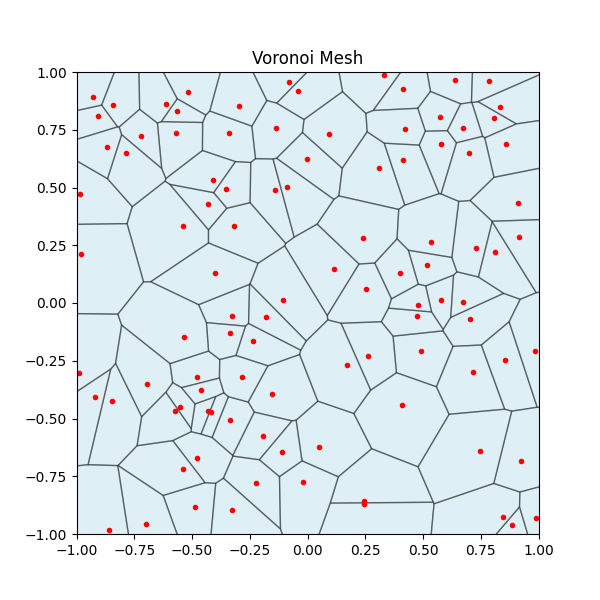
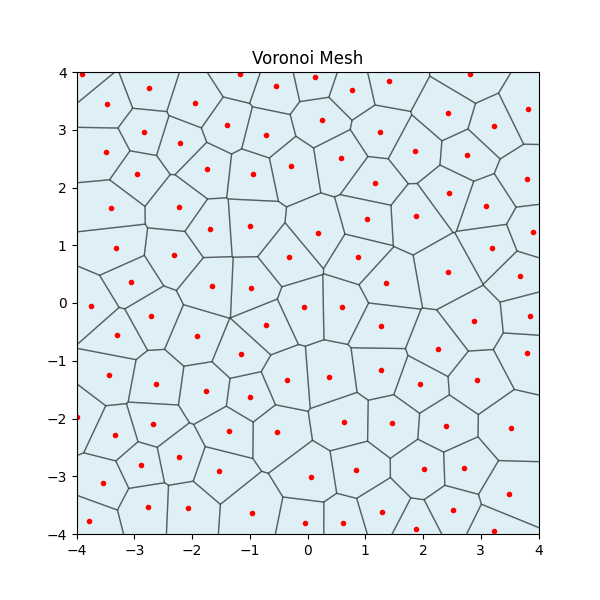
adding glass node generator

diff --git a/src/Generation/RandomNodeGenerator.py b/src/Generation/RandomNodeGenerator.py
@@ -7,10 +7,10 @@ class RandomNodeGenerator1d:
         self.bounds = bounds
         self.positions = []
         if len(self.bounds) == 0:
-            self.bounds = [0, 1]  # default bounds if none are provided
+            self.bounds = [-1, 1]  # default bounds if none are provided
         import random
         for i in range(numNodes):
-            self.positions.append(Vector1d(random.uniform(self.bounds[0], self.bounds[1])))
+            self.positions.append(random.uniform(self.bounds[0], self.bounds[1]))
 
 class RandomNodeGenerator2d:
     def __init__(self, numNodes, bounds=[]):
@@ -18,12 +18,12 @@ class RandomNodeGenerator2d:
         self.bounds = bounds
         self.positions = []
         if len(self.bounds) == 0:
-            self.bounds = [[0, 0], [1, 1]]  # default bounds if none are provided
+            self.bounds = [[-1, -1], [1, 1]]  # default bounds if none are provided
         import random
         for i in range(numNodes):
             x = random.uniform(self.bounds[0][0], self.bounds[1][0])
             y = random.uniform(self.bounds[0][1], self.bounds[1][1])
-            self.positions.append(Vector2d(x, y))
+            self.positions.append([x, y])
 
 class RandomNodeGenerator3d:
     def __init__(self, numNodes, bounds=[]):
@@ -31,10 +31,10 @@ class RandomNodeGenerator3d:
         self.bounds = bounds
         self.positions = []
         if len(self.bounds) == 0:
-            self.bounds = [[0, 0, 0], [1, 1, 1]]  # default bounds if none are provided
+            self.bounds = [[-1,-1,-1], [1, 1, 1]]  # default bounds if none are provided
         import random
         for i in range(numNodes):
             x = random.uniform(self.bounds[0][0], self.bounds[1][0])
             y = random.uniform(self.bounds[0][1], self.bounds[1][1])
             z = random.uniform(self.bounds[0][2], self.bounds[1][2])
-            self.positions.append(Vector3d(x, y, z))
+            self.positions.append([x, y, z])

diff --git a/src/Generation/GlassNodeGenerator.py b/src/Generation/GlassNodeGenerator.py
@@ -1,0 +1,45 @@
+from DataBase import *
+from LinearAlgebra import *
+from Trees import *
+from numpy import sqrt
+
+class GlassNodeGenerator2d:
+    def __init__(self, numNodes):
+        self.numNodes = numNodes
+        self.positions = []
+        self.bounds = [[-1, -1], [1, 1]]
+        self.trials = 20*numNodes
+        
+        pfield = FieldofVector2d("position")
+        minx = self.bounds[0][0]
+        maxx = self.bounds[1][0]
+        miny = self.bounds[0][1]
+        maxy = self.bounds[1][1]
+        area = (maxx - minx) * (maxy - miny)
+        mean_spacing = sqrt(area / numNodes)
+        dmin = mean_spacing * 0.8
+        radius = mean_spacing * 2.0
+        
+        import random
+        x = random.uniform(self.bounds[0][0], self.bounds[1][0])
+        y = random.uniform(self.bounds[0][1], self.bounds[1][1])
+        pfield.addValue(Vector2d(x,y)) # initial seed point
+        self.positions.append([x,y])
+        for i in range(numNodes-1):
+            tree = KDTree2d(pfield)
+            nbrs = numNodes
+            next = (0,0)
+            decay = (1.0 - i / numNodes)
+            local_radius = radius * decay**0.5
+            for j in range(self.trials):
+                x = random.uniform(self.bounds[0][0], self.bounds[1][0])
+                y = random.uniform(self.bounds[0][1], self.bounds[1][1])
+                tn = tree.findNearestNeighbors(Vector2d(x, y), dmin)
+                if tn: continue  # too close to an existing point, skip
+                tn_big = tree.findNearestNeighbors(Vector2d(x, y), local_radius)
+                if len(tn_big) < nbrs:
+                    nbrs = len(tn)
+                    next = (x,y)
+            pfield.addValue(Vector2d(next[0],next[1]))
+            self.positions.append([next[0],next[1]])
+

diff --git a/examples/voronoi_diag.py b/examples/voronoi_diag.py
@@ -8,7 +8,7 @@ if __name__ == "__main__":
                                        bmax = [4,4],
                                        method = "random")
     
-    assert method in ["random", "fibonacci"]
+    assert method in ["random", "fibonacci", "glass"]
 
     myNodeList = NodeList(numNodes)
     myNodeList.insertFieldVector2d("position")
@@ -17,13 +17,17 @@ if __name__ == "__main__":
 
     pos = myNodeList.getFieldVector2d("position")
     if method == "random":
-        for i in range(numNodes):
-            pos.setValue(i,Vector2d(random.uniform(bmin[0],bmax[0]), random.uniform(bmin[1],bmax[1])))
-    else:
+        from RandomNodeGenerator import RandomNodeGenerator2d
+        posF = RandomNodeGenerator2d(numNodes).positions
+    elif method == "fibonacci":
         from FibonacciNodeGenerator import FibonacciDisk2d
         posF = FibonacciDisk2d(numNodes).positions
-        for i in range(numNodes):
-            pos.setValue(i,Vector2d(posF[i][0], posF[i][1])*0.5*(bmax[1]-bmin[1]))
+    elif method == "glass":
+        from GlassNodeGenerator import GlassNodeGenerator2d
+        posF = GlassNodeGenerator2d(numNodes).positions
+
+    for i in range(numNodes):
+        pos.setValue(i,Vector2d(posF[i][0], posF[i][1])*0.5*(bmax[1]-bmin[1]))
 
     print("Creating VoronoiMesh2d")
     vor = VoronoiMesh2d(pos)
